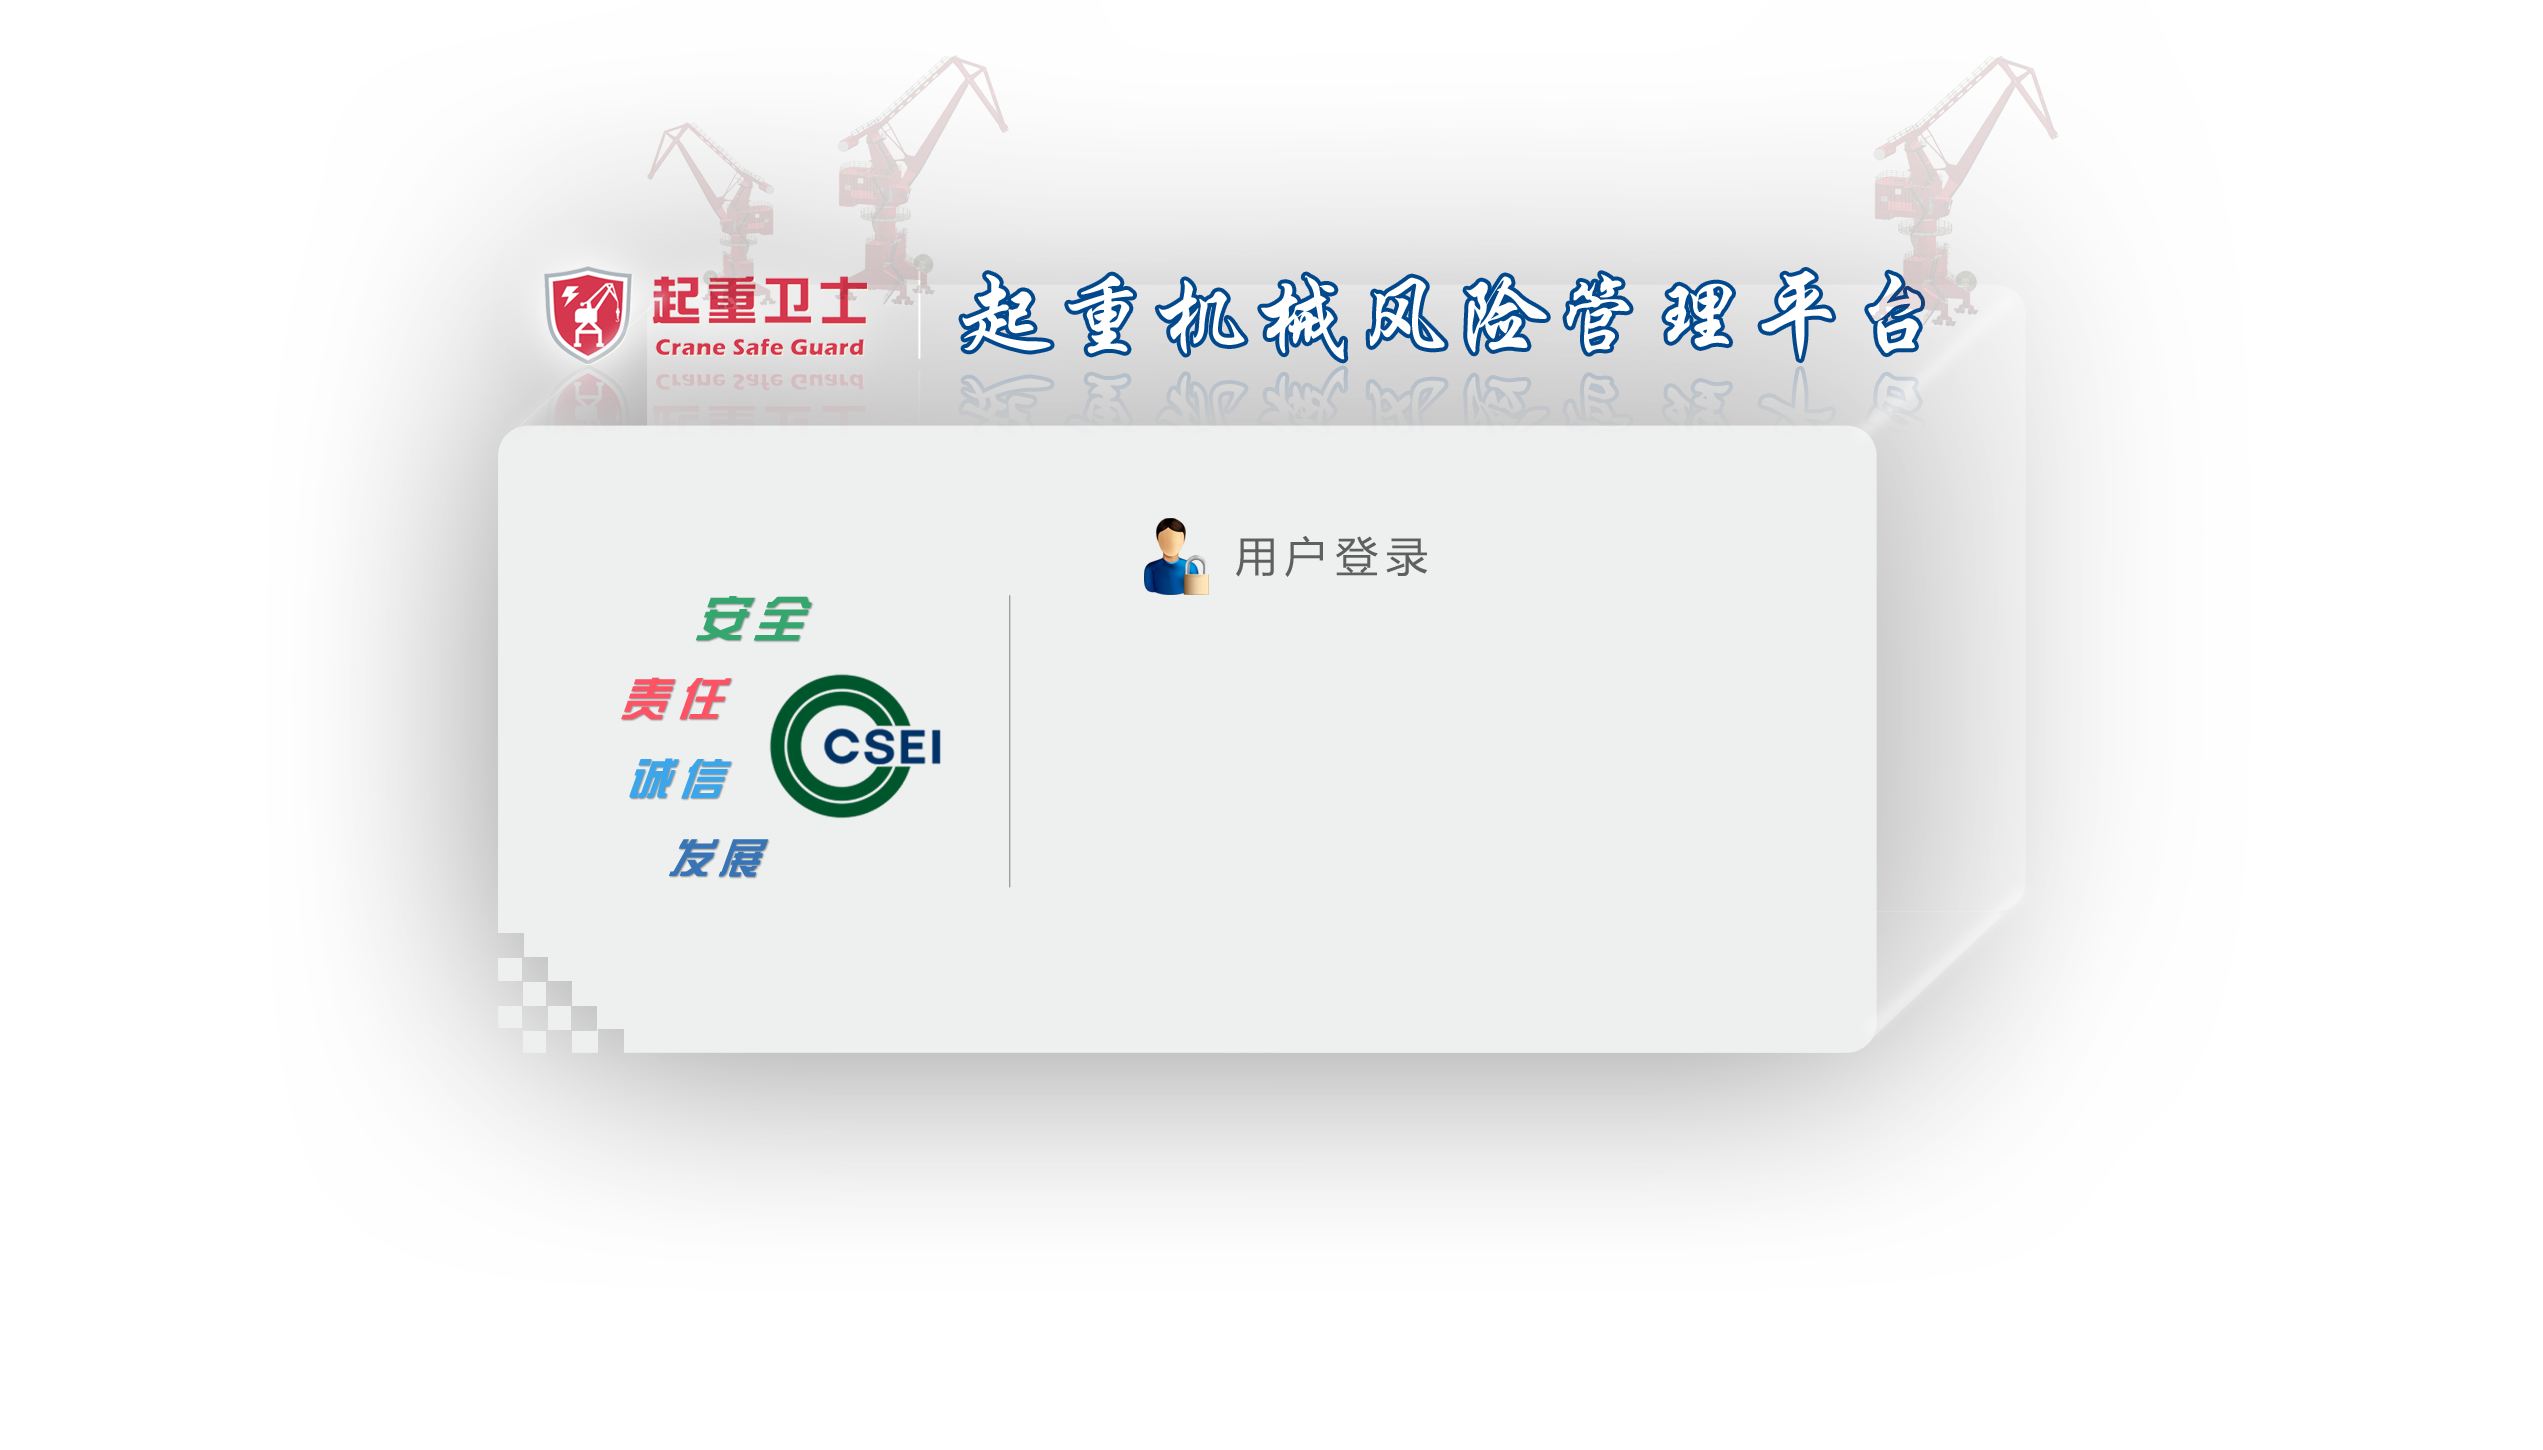
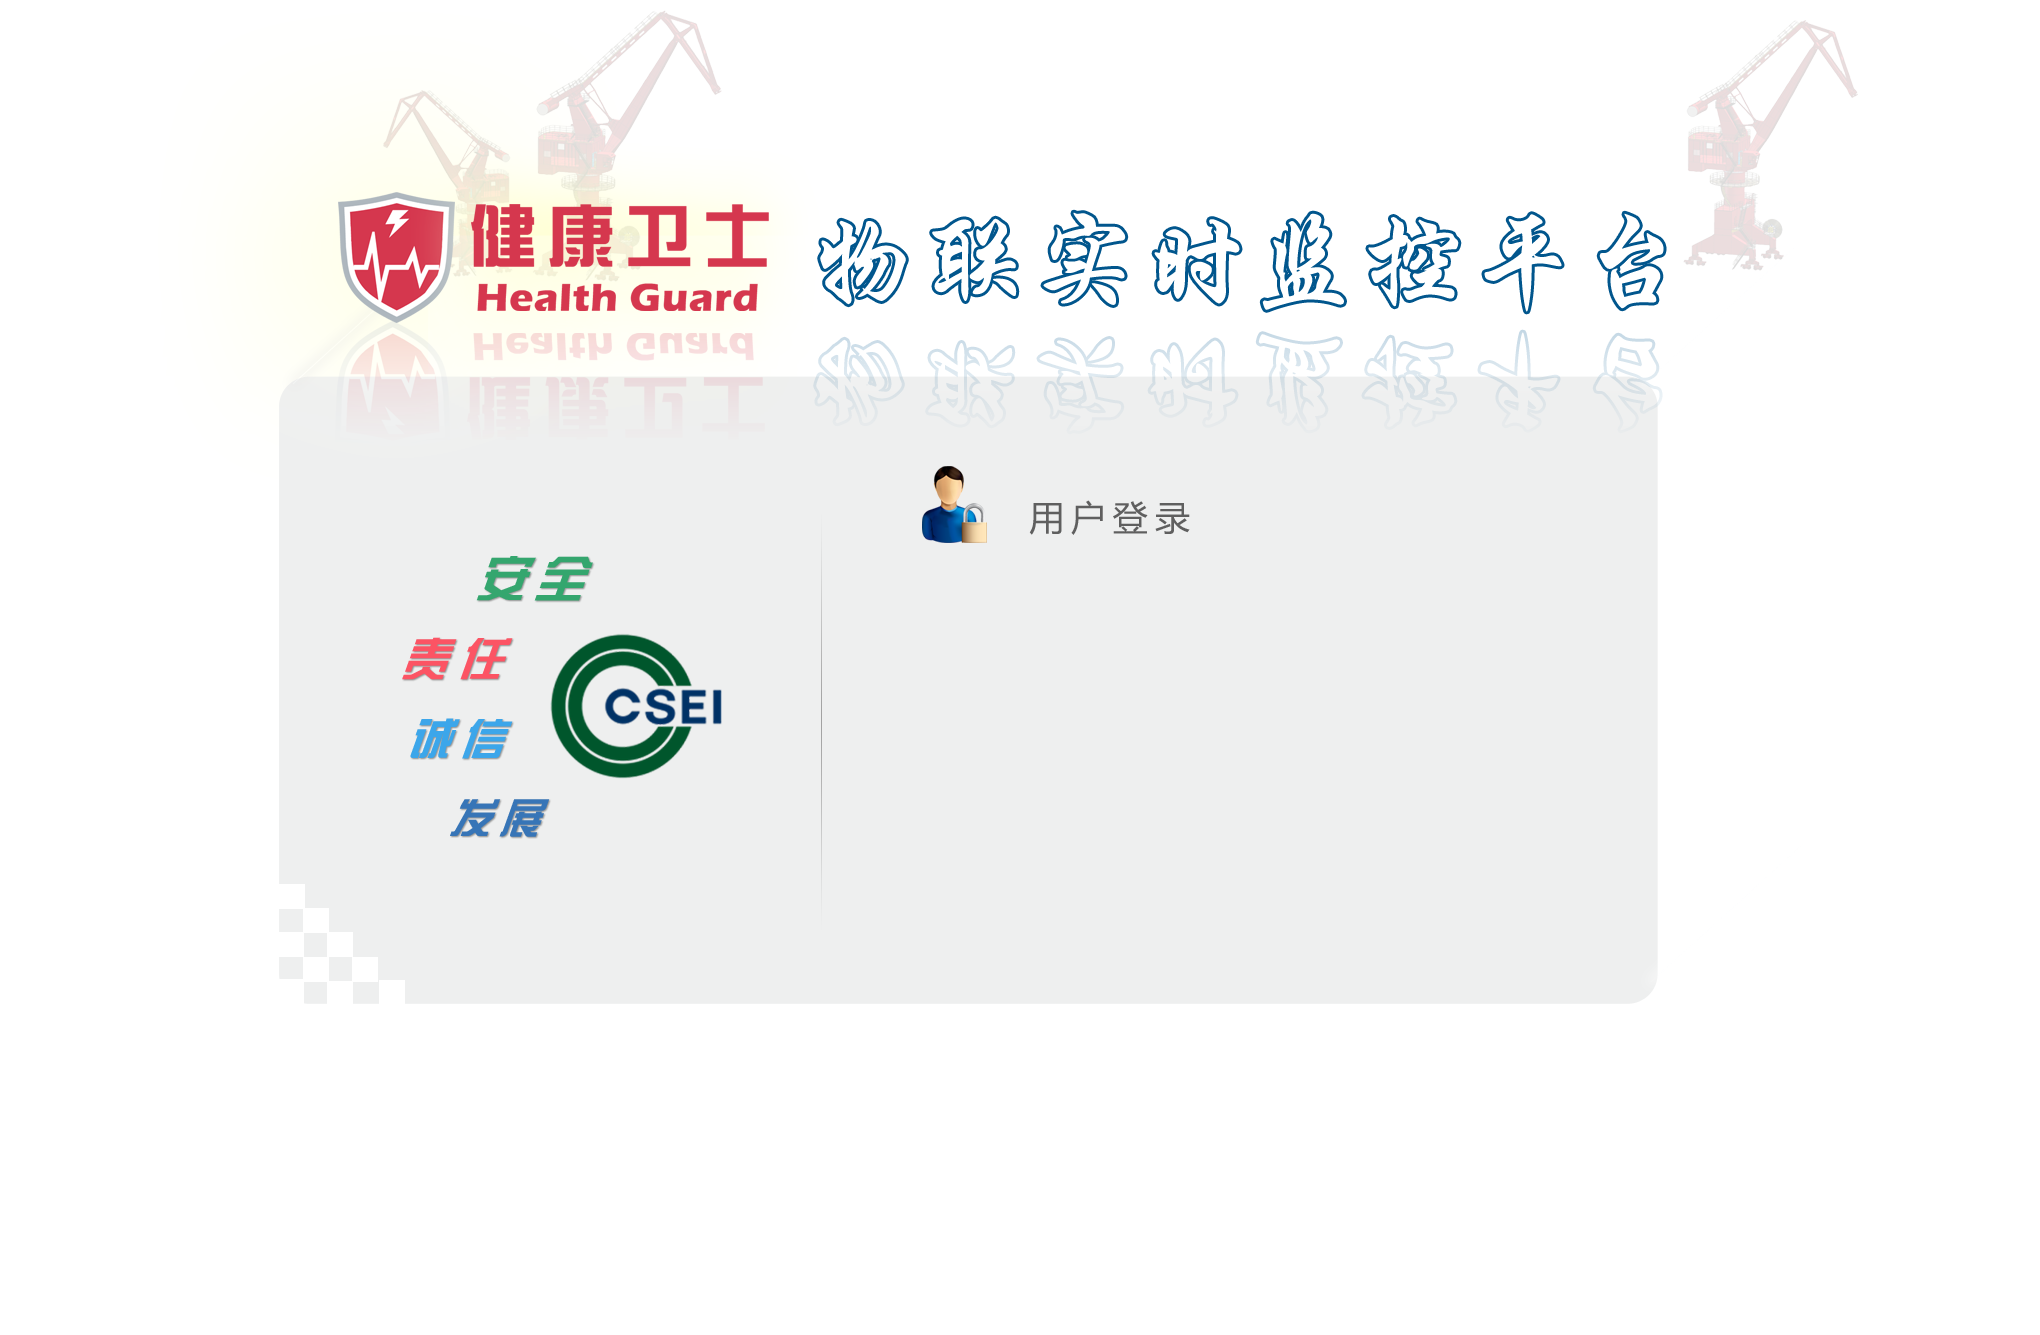
实时监控登录页面

diff --git a/realtimeMonitor/realtimeMonitorWeb/src/main/webapp/login.html b/realtimeMonitor/realtimeMonitorWeb/src/main/webapp/login.html
@@ -13,7 +13,7 @@
         #mainContainer{background-image: url("login/background.jpg");background-size: 100% 100%;}
         #main{margin: 0 auto; width: 1100px;position: relative;}
         #loginBackgroundImg{width: 100%;z-index: 1;}
-        #loginFormDiv{position: relative;top: -350px;left: 500px;z-index: 1000;}
+        #loginFormDiv{position: relative;top: -400px;left: 480px;z-index: 1000;}
         #loginMsg{color: red;}
     </style>
 </head>
